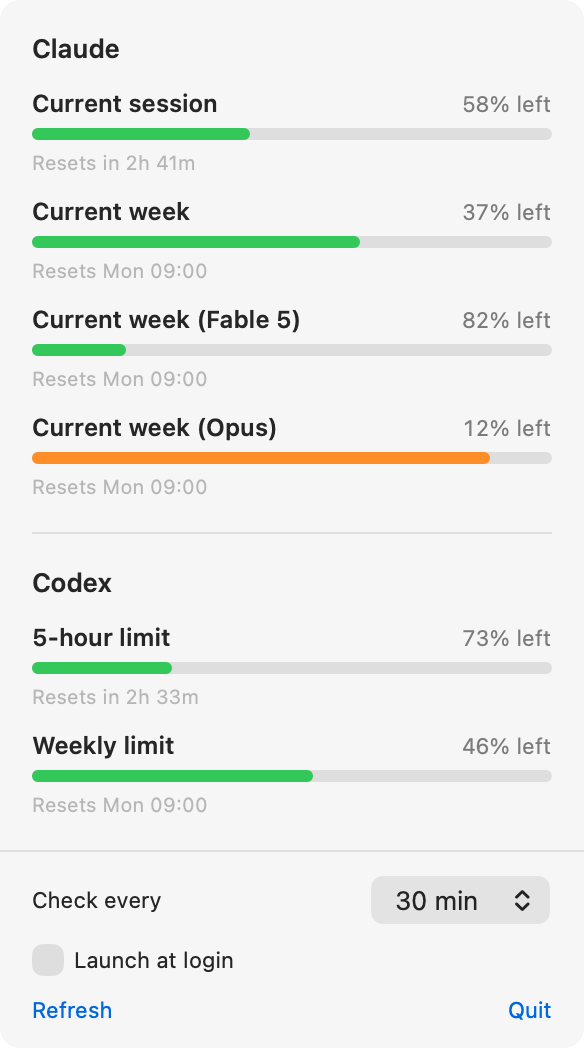
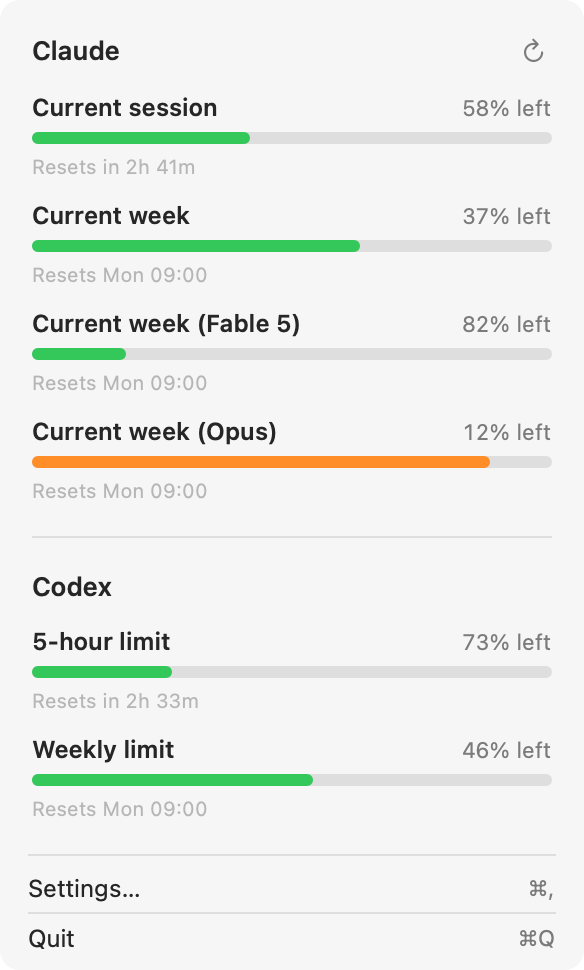
tweaks

diff --git a/Sources/ClaudeUsage/Features/Usage/Presentation/DropdownView.swift b/Sources/ClaudeUsage/Features/Usage/Presentation/DropdownView.swift
@@ -3,7 +3,6 @@ import UsageCore
 
 struct DropdownView: View {
     @ObservedObject var store: UsageStore
-    @ObservedObject var launchAtLogin: LaunchAtLoginModel
     @State private var usageContentHeight: CGFloat = 180
 
     private static let maximumUsageContentHeight: CGFloat = 520
@@ -26,10 +25,10 @@ struct DropdownView: View {
             }
 
             Divider()
+                .padding(.horizontal, 14)
             footer
         }
         .frame(width: 292)
-        .onAppear { launchAtLogin.refresh() }
     }
 
     private var usageContent: some View {
@@ -41,7 +40,8 @@ struct DropdownView: View {
                 statusMessage: store.statusMessage,
                 statusIcon: store.statusIcon,
                 statusIsWarning: store.statusIsWarning,
-                now: store.now
+                now: store.now,
+                refresh: store.refreshManually
             )
 
             Divider()
@@ -53,7 +53,8 @@ struct DropdownView: View {
                 statusMessage: store.codexStatusMessage,
                 statusIcon: store.codexStatusIcon,
                 statusIsWarning: store.codexStatusIsWarning,
-                now: store.now
+                now: store.now,
+                refresh: nil
             )
         }
         .padding(16)
@@ -68,48 +69,77 @@ struct DropdownView: View {
     }
 
     private var footer: some View {
-        VStack(alignment: .leading, spacing: 10) {
-            HStack(spacing: 6) {
-                Text("Check every")
-                Spacer(minLength: 12)
-                Picker("", selection: $store.pollInterval) {
-                    Text("15 min").tag(TimeInterval(900))
-                    Text("30 min").tag(TimeInterval(1800))
-                    Text("60 min").tag(TimeInterval(3600))
-                }
-                .labelsHidden()
-                .frame(width: 92)
+        VStack(spacing: 0) {
+            SettingsLink {
+                MenuRowLabel(title: "Settings…", shortcut: "⌘,")
             }
-            .frame(maxWidth: .infinity)
-            .font(.system(size: 11))
+            .buttonStyle(MenuRowButtonStyle())
+            .keyboardShortcut(",", modifiers: .command)
 
-            Toggle(
-                "Launch at login",
-                isOn: Binding(
-                    get: { launchAtLogin.isEnabled },
-                    set: { launchAtLogin.setEnabled($0) }
-                )
-            )
-            .font(.system(size: 11))
-            .toggleStyle(.checkbox)
+            Divider()
+                .padding(.horizontal, 14)
 
-            if let errorMessage = launchAtLogin.errorMessage {
-                Text(errorMessage)
-                    .font(.system(size: 10))
-                    .foregroundStyle(Color(nsColor: .systemRed))
-                    .fixedSize(horizontal: false, vertical: true)
+            Button {
+                NSApplication.shared.terminate(nil)
+            } label: {
+                MenuRowLabel(title: "Quit", shortcut: "⌘Q")
             }
-
-            HStack(spacing: 12) {
-                Button("Refresh") { store.refreshManually() }
-                Spacer()
-                Button("Quit") { NSApplication.shared.terminate(nil) }
-            }
-            .font(.system(size: 11))
-            .buttonStyle(.link)
+            .buttonStyle(MenuRowButtonStyle())
+            .keyboardShortcut("q", modifiers: .command)
         }
-        .padding(.horizontal, 16)
-        .padding(.vertical, 12)
+        .padding(.vertical, 4)
+    }
+}
+
+private struct MenuRowLabel: View {
+    let title: String
+    let shortcut: String
+
+    var body: some View {
+        HStack(spacing: 12) {
+            Text(title)
+            Spacer(minLength: 12)
+            Text(shortcut)
+                .font(.system(size: 11))
+                .foregroundStyle(.secondary)
+        }
+    }
+}
+
+private struct MenuRowButtonStyle: ButtonStyle {
+    func makeBody(configuration: Configuration) -> some View {
+        MenuRowButtonStyleBody(configuration: configuration)
+    }
+
+    private struct MenuRowButtonStyleBody: View {
+        let configuration: Configuration
+        @State private var isHovered = false
+
+        private var isHighlighted: Bool {
+            isHovered || configuration.isPressed
+        }
+
+        private var highlightColor: Color {
+            guard isHighlighted else { return .clear }
+            return Color.primary.opacity(configuration.isPressed ? 0.14 : 0.08)
+        }
+
+        var body: some View {
+            configuration.label
+                .font(.system(size: 12))
+                .padding(.horizontal, 14)
+                .frame(maxWidth: .infinity, alignment: .leading)
+                .frame(height: 24)
+                .contentShape(Rectangle())
+                .foregroundStyle(Color.primary)
+                .background {
+                    Capsule()
+                        .fill(highlightColor)
+                        .padding(.horizontal, 8)
+                        .frame(height: 18)
+                }
+                .onHover { isHovered = $0 }
+        }
     }
 }
 
@@ -129,11 +159,29 @@ private struct ProviderUsageSection: View {
     let statusIcon: String
     let statusIsWarning: Bool
     let now: Date
+    let refresh: (() -> Void)?
 
     var body: some View {
         VStack(alignment: .leading, spacing: 12) {
-            Text(title)
-                .font(.system(size: 13, weight: .semibold))
+            HStack(spacing: 8) {
+                Text(title)
+                    .font(.system(size: 13, weight: .semibold))
+
+                Spacer(minLength: 8)
+
+                if let refresh {
+                    Button(action: refresh) {
+                        Image(systemName: "arrow.clockwise")
+                            .font(.system(size: 11, weight: .medium))
+                            .frame(width: 18, height: 18)
+                            .contentShape(Rectangle())
+                    }
+                    .buttonStyle(.plain)
+                    .foregroundStyle(.secondary)
+                    .help("Refresh")
+                    .accessibilityLabel("Refresh usage")
+                }
+            }
 
             if buckets.isEmpty {
                 if statusIsWarning, let statusMessage {

diff --git a/Sources/ClaudeUsage/Features/Settings/SettingsView.swift b/Sources/ClaudeUsage/Features/Settings/SettingsView.swift
@@ -1,0 +1,36 @@
+import SwiftUI
+
+struct SettingsView: View {
+    @ObservedObject var store: UsageStore
+    @ObservedObject var launchAtLogin: LaunchAtLoginModel
+
+    var body: some View {
+        Form {
+            Section("General") {
+                Picker("Check every", selection: $store.pollInterval) {
+                    Text("15 minutes").tag(TimeInterval(15 * 60))
+                    Text("30 minutes").tag(TimeInterval(30 * 60))
+                    Text("60 minutes").tag(TimeInterval(60 * 60))
+                }
+
+                Toggle(
+                    "Launch at login",
+                    isOn: Binding(
+                        get: { launchAtLogin.isEnabled },
+                        set: { launchAtLogin.setEnabled($0) }
+                    )
+                )
+
+                if let errorMessage = launchAtLogin.errorMessage {
+                    Text(errorMessage)
+                        .font(.callout)
+                        .foregroundStyle(.red)
+                        .fixedSize(horizontal: false, vertical: true)
+                }
+            }
+        }
+        .formStyle(.grouped)
+        .frame(width: 420)
+        .onAppear { launchAtLogin.refresh() }
+    }
+}

diff --git a/Sources/ClaudeUsage/App/ClaudeUsageApp.swift b/Sources/ClaudeUsage/App/ClaudeUsageApp.swift
@@ -108,14 +108,19 @@ struct ClaudeUsageApp: App {
 
     var body: some Scene {
         MenuBarExtra {
-            MenuBarDropdownContent(
-                store: delegate.store,
-                launchAtLogin: delegate.launchAtLogin
-            )
+            MenuBarDropdownContent(store: delegate.store)
         } label: {
             MenuBarGaugeLabel(store: delegate.store)
         }
         .menuBarExtraStyle(.window)
+
+        Settings {
+            SettingsView(
+                store: delegate.store,
+                launchAtLogin: delegate.launchAtLogin
+            )
+        }
+        .windowResizability(.contentSize)
     }
 }
 
@@ -167,10 +172,9 @@ private struct MenuBarGaugeLabel: View {
 
 private struct MenuBarDropdownContent: View {
     @ObservedObject var store: UsageStore
-    @ObservedObject var launchAtLogin: LaunchAtLoginModel
 
     var body: some View {
-        DropdownView(store: store, launchAtLogin: launchAtLogin)
+        DropdownView(store: store)
             .onAppear { store.refreshIfStale() }
     }
 }

diff --git a/Sources/ClaudeUsage/DeveloperTools/Screenshots.swift b/Sources/ClaudeUsage/DeveloperTools/Screenshots.swift
@@ -41,8 +41,7 @@ enum Screenshots {
 
     // MARK: - The two images
 
-    /// The dropdown, captured from a real `NSHostingView` so the AppKit-backed controls (picker,
-    /// checkbox, links) come out as the user sees them.
+    /// The dropdown, captured from a real `NSHostingView` so controls match the running app.
     private static func dropdown(_ appearance: Appearance) -> NSBitmapImageRep {
         let store = UsageStore(
             fixture: Fixture.buckets,
@@ -50,9 +49,8 @@ enum Screenshots {
             lastUpdated: now.addingTimeInterval(-260),
             clock: FixedDateProvider(now: now)
         )
-        let launchAtLogin = LaunchAtLoginModel(service: FixedLaunchAtLoginService(isEnabled: false))
         let hosting = NSHostingView(
-            rootView: DropdownView(store: store, launchAtLogin: launchAtLogin)
+            rootView: DropdownView(store: store)
         )
         hosting.appearance = appearance.nsAppearance
         settleLayout(of: hosting, appearance: appearance)

diff --git a/Tests/ClaudeUsageTests/SettingsLayoutTests.swift b/Tests/ClaudeUsageTests/SettingsLayoutTests.swift
@@ -1,0 +1,35 @@
+import AppKit
+import SwiftUI
+import Testing
+import UsageCore
+
+@testable import ClaudeUsage
+
+@Suite("Settings layout")
+@MainActor
+struct SettingsLayoutTests {
+    @Test("Settings content has a useful intrinsic window size")
+    func contentSize() {
+        let store = UsageStore(
+            fixture: [],
+            lastUpdated: .now,
+            pollInterval: 30 * 60,
+            clock: SettingsTestDateProvider(now: .now)
+        )
+        let launchAtLogin = LaunchAtLoginModel(
+            service: FixedLaunchAtLoginService(isEnabled: false)
+        )
+        let hosting = NSHostingView(
+            rootView: SettingsView(store: store, launchAtLogin: launchAtLogin)
+        )
+
+        hosting.layoutSubtreeIfNeeded()
+
+        #expect(hosting.fittingSize.width >= 400)
+        #expect(hosting.fittingSize.height >= 120)
+    }
+}
+
+private struct SettingsTestDateProvider: DateProvider {
+    let now: Date
+}

diff --git a/Tests/ClaudeUsageTests/DropdownLayoutTests.swift b/Tests/ClaudeUsageTests/DropdownLayoutTests.swift
@@ -63,8 +63,7 @@ struct DropdownLayoutTests {
             lastUpdated: now,
             clock: FixedTestDateProvider(now: now)
         )
-        let login = LaunchAtLoginModel(service: FixedLaunchAtLoginService(isEnabled: false))
-        let hosting = NSHostingView(rootView: DropdownView(store: store, launchAtLogin: login))
+        let hosting = NSHostingView(rootView: DropdownView(store: store))
 
         hosting.frame = NSRect(x: 0, y: 0, width: 292, height: 700)
         let window = NSWindow(

diff --git a/README.md b/README.md
@@ -92,7 +92,7 @@ simply being refused. Claude Code itself caches a successful response for a full
 
 So the app is deliberately conservative:
 
-- polls on a fixed interval (default 30 min, selectable 15/30/60 in the dropdown)
+- polls on a fixed interval (default 30 min, selectable 15/30/60 in Settings)
 - never sends a request before a recorded `retry-after` has elapsed, plus a 60s margin so it
   cannot land on the boundary and re-trigger the penalty
 - enforces a 15 minute floor between calls, so mashing Refresh cannot burn the budget
@@ -230,10 +230,10 @@ By hand, or from CI:
 bypassed shows up as a failure rather than as a quietly outdated README.
 
 Under the hood it is `ClaudeUsage --screenshot <dir>`. The app puts the real `DropdownView` in
-an `NSHostingView` inside an offscreen window and reads the layer back at 2×, so the picker,
-the checkbox and the links are the actual controls rather than a mock-up, and the menu bar
-chip comes from the same `GaugeRenderer` that draws the status item. Both are rendered twice,
-once per appearance, and the README picks light or dark from `prefers-color-scheme`.
+an `NSHostingView` inside an offscreen window and reads the layer back at 2×, so the refresh,
+Settings, and Quit controls are not mock-ups. The menu bar chip comes from the same
+`GaugeRenderer` that draws the status item. Both are rendered twice, once per appearance, and
+the README picks light or dark from `prefers-color-scheme`.
 
 Output is byte-identical between runs — `git status` stays clean unless the UI actually
 changed. Two things make that true:
